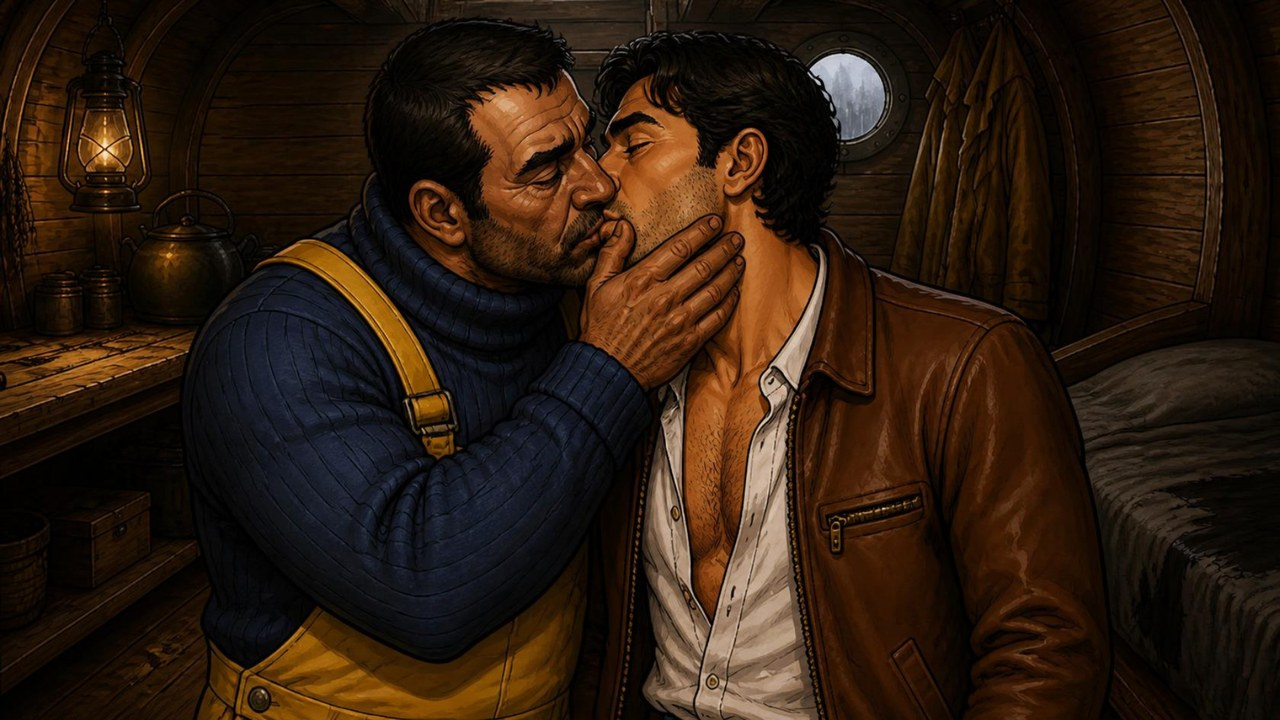
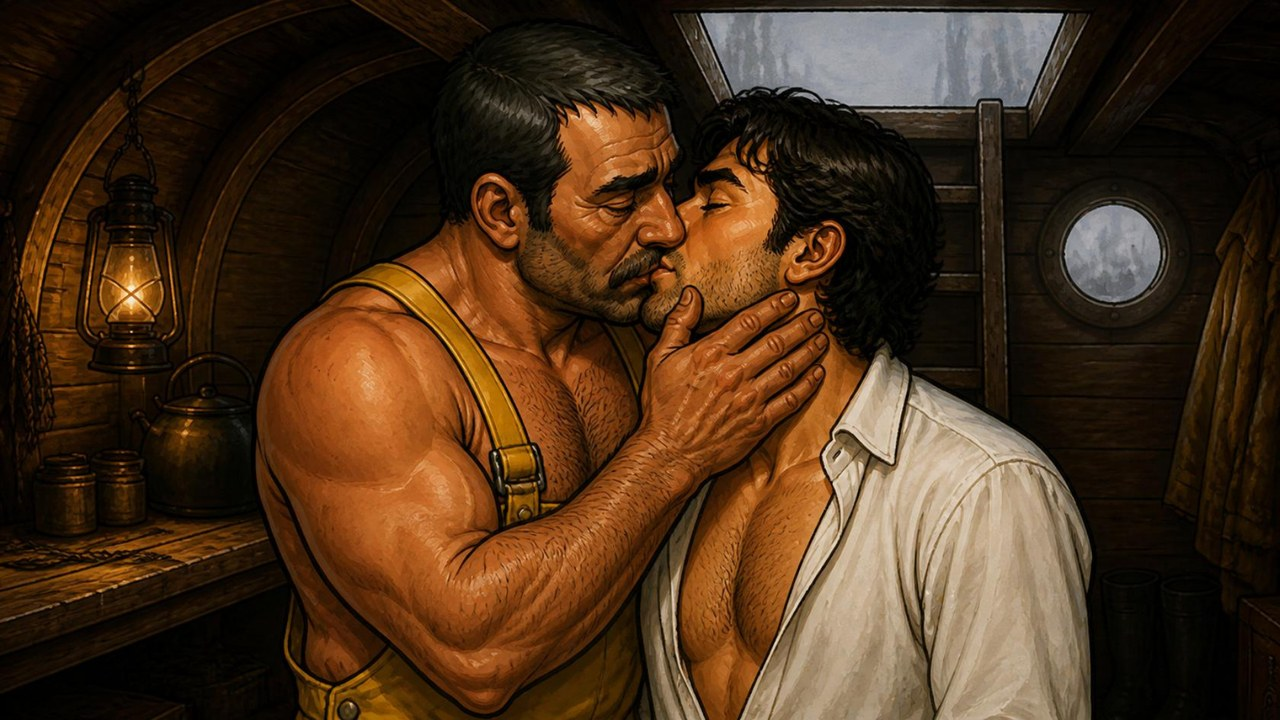
Romance: pair, dressing and shirtless frames, night bunk still; pair frames anchored on the couple
Claude-Session: https://claude.ai/code/session_01PQoWp2SmC5amp6FGRiZGFy

diff --git a/js/sprites.js b/js/sprites.js
@@ -82,6 +82,15 @@ window.SPRITES = {
   "fy": 710.3,
   "top": 3.1
  },
+ "alan_button": {
+  "w": 246,
+  "hh": 749,
+  "h": 720,
+  "ax": 104.9,
+  "fy": 745.6,
+  "top": 3.1,
+  "facesLeft": true
+ },
  "alan_cutpalm": {
   "w": 250,
   "hh": 726,
@@ -955,6 +964,30 @@ window.SPRITES = {
   "top": 3.2,
   "facesLeft": true
  },
+ "pair_brow": {
+  "w": 312,
+  "hh": 729,
+  "h": 720,
+  "ax": 156.0,
+  "fy": 724.2,
+  "top": 4.2
+ },
+ "pair_kiss": {
+  "w": 340,
+  "hh": 729,
+  "h": 720,
+  "ax": 170.0,
+  "fy": 724.1,
+  "top": 4.1
+ },
+ "pair_unbutton": {
+  "w": 362,
+  "hh": 729,
+  "h": 720,
+  "ax": 181.0,
+  "fy": 724.1,
+  "top": 4.1
+ },
  "pessoa_eat": {
   "w": 1066,
   "hh": 546,
@@ -1212,6 +1245,14 @@ window.SPRITES = {
   "fy": 710.0,
   "top": 3.0
  },
+ "ze_dress": {
+  "w": 260,
+  "hh": 725,
+  "h": 720,
+  "ax": 110.3,
+  "fy": 721.0,
+  "top": 3.0
+ },
  "ze_give": {
   "w": 378,
   "hh": 703,
@@ -1228,12 +1269,28 @@ window.SPRITES = {
   "fy": 729.5,
   "top": 3.0
  },
+ "ze_shirtless": {
+  "w": 237,
+  "hh": 710,
+  "h": 720,
+  "ax": 131.1,
+  "fy": 707.0,
+  "top": 3.0
+ },
  "ze_sit": {
   "w": 418,
   "hh": 635,
   "h": 720,
   "ax": 257.7,
   "fy": 631.9,
+  "top": 3.0
+ },
+ "ze_suspenders": {
+  "w": 297,
+  "hh": 724,
+  "h": 720,
+  "ax": 145.6,
+  "fy": 720.5,
   "top": 3.0
  },
  "ze_talk": {

diff --git a/js/story/ch4.js b/js/story/ch4.js
@@ -230,7 +230,7 @@
       if (ze) { ze.pose = 'ze_dress'; await T(700); ze.pose = 'ze_shirtless'; }
       await say('alan_rom_1', 'ze_rom_2');
       // the two of them as one painted pair: Zé on the left, Alan on the right
-      const home = p.x, mid = ze ? (ze.x + p.x) / 2 : p.x;
+      const home = p.x, mid = ze ? (ze.x + p.x) / 2 : p.x; // pair frames are anchored on the couple's middle
       if (ze) ze.visible = false;
       p.x = mid; p.dir = 'e'; p.pose = 'pair_unbutton'; sfx('sheet_slap', 0.2);
       await T(2200);

diff --git a/scripts/align_pairs.py b/scripts/align_pairs.py
@@ -51,6 +51,9 @@ for (A, B), frac in PAIRS.items():
     print(B, 'k=%.3f t=(%.1f,%.1f) inliers=%d frac=%.2f err=%.1f' % (k, tx, ty, int(inl.sum()), f, err))
 for n, f in SCALE.items():
     if n in meta and not meta[n].get('scaled'): meta[n]['h'] = round(meta[n]['h'] / f, 2); meta[n]['scaled'] = f
+# two-person frames: anchor on the middle of the couple, so poses don't jump sideways
+for n in ('pair_unbutton', 'pair_kiss', 'pair_brow'):
+    if n in meta: meta[n]['ax'] = round(meta[n]['w'] / 2, 1)
 for n, v in FACING.items():
     if n in meta:
         if v: meta[n]['facesLeft'] = True
